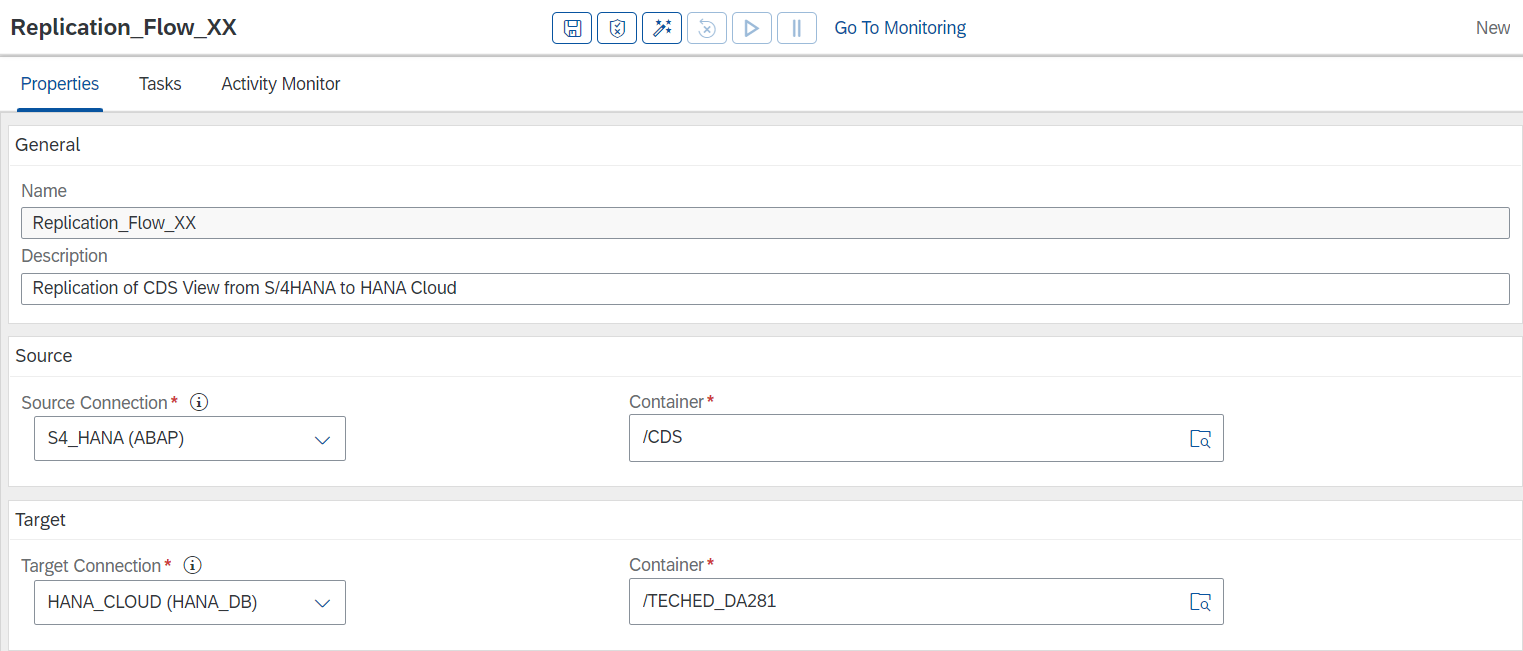
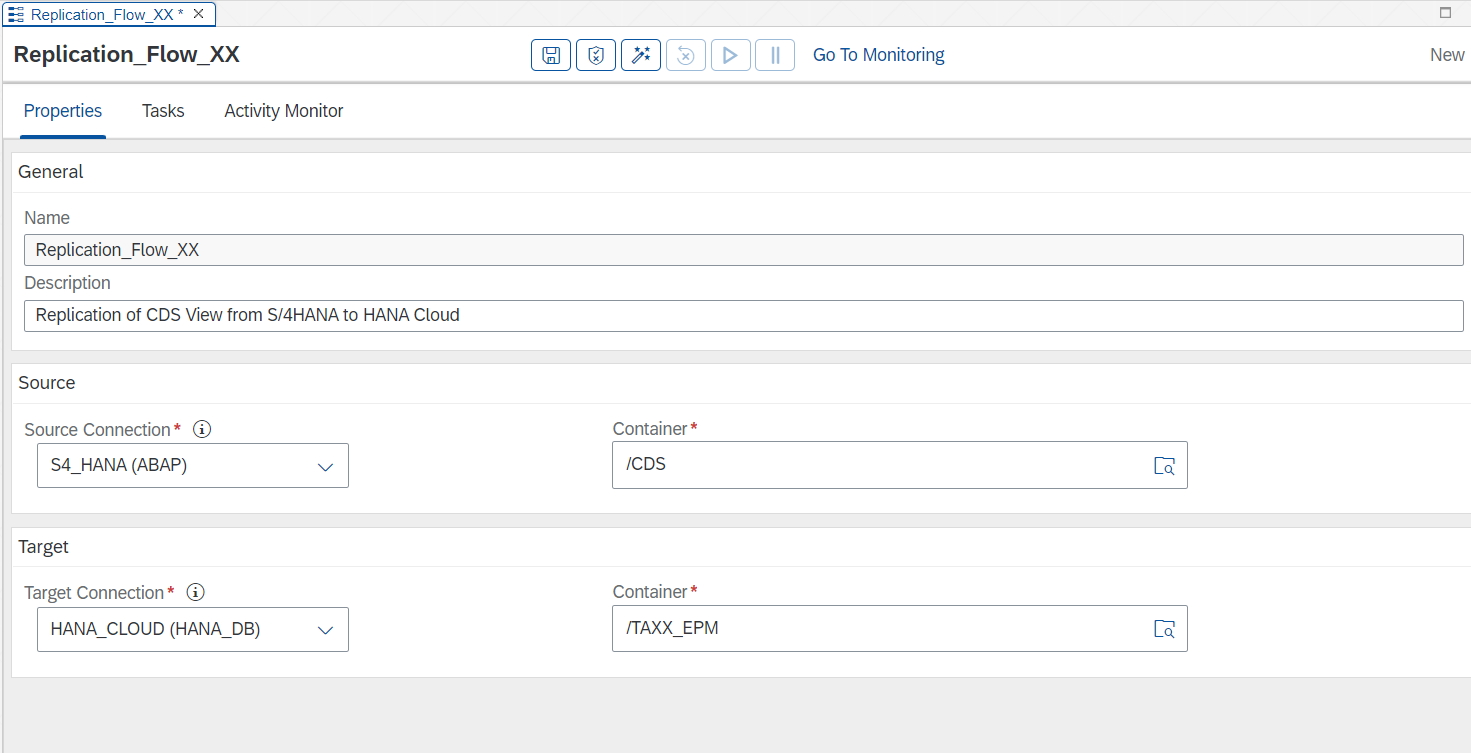
Updated Schema picture

diff --git a/exercises/ex3/README.md b/exercises/ex3/README.md
@@ -29,37 +29,37 @@ For the integration of ABAP CDS Views in S/4HANA, SAP Data Intelligence provides
      - Container: **CDS**
    - Target
       - Target Connection: **HANA_CLOUD (HANA_DB)**
-      - Container: **TECHED_DA281**
+      - Container: **TAXX_EPM**
 
 ![RF Configuration](img/RF_Configuration.png)
 
-6. After filling the necessary properties for the Replication Flow, we click on the Tasks tab to replicate the CDS View **Z_CDS_EPM_SO_XX**. 
-7. Click on the Create button to create a task for the CDS View replication
+1. After filling the necessary properties for the Replication Flow, we click on the Tasks tab to replicate the CDS View **Z_CDS_EPM_SO**. 
+2. Click on the Create button to create a task for the CDS View replication
 
 ![RF Create Task](img/RF_Create_Task.png)
 
-8. Select the CDS View by navigating to the TMP folder and click on the CDS View **Z_CDS_EPM_SO_XX**. To add the CDS View to the Replication Flow click the Ok button on the Pop-Up window
-9. Repeat step 8 for the CDS views **Z_CDS_EPM_PO_XX** and **Z_CDS_EPM_PD_XX**.
+1. Select the CDS View by navigating to the TMP folder and click on the CDS View **Z_CDS_EPM_SO**. To add the CDS View to the Replication Flow click the Ok button on the Pop-Up window
+2. Repeat step 8 for the CDS views **Z_CDS_EPM_PO** and **Z_CDS_EPM_PD**.
 
-10. After adding all three CDS views to the created Replication Flow, change the Load Type of each CDS View from Initial Only to Initial and Delta over the drop-down menu in the column Load Type.
+3.  After adding all three CDS views to the created Replication Flow, change the Load Type of each CDS View from Initial Only to Initial and Delta over the drop-down menu in the column Load Type.
 
 ![RF Task Overview](img/RF_Replication_Details.png)
 
 11. For the three CDS Views we define different preparations techniques which can be used for the replication. We differentiate between Filter and Mapping preparations
-12. For the CDS View Z_CDS_EPM_PD_XX we create a new column for the target table. Click therefore in the Mapping Column on the ![Mapping Icon](img/Mapping_Icon.png) icon
+12. For the CDS View Z_CDS_EPM_PD we create a new column for the target table. Click therefore in the Mapping Column on the ![Mapping Icon](img/Mapping_Icon.png) icon
     - In the opened window click on the Create Button to create a new column
     - Change the Column Name in the last field to the name **TimestampReplication**
     - Set the Data Type to timestamp from the drop down
     - Add for the Column Expression the following function: CURRENT_UTCTIMESTAMP
     ![RF Mapping Timestamp](img/RF_Mapping_Timestamp.png)
-    - Click on the **OK** Button to save the mapping for the CDS View Z_CDS_EPM_PD_XX
+    - Click on the **OK** Button to save the mapping for the CDS View Z_CDS_EPM_PD
 
-13. For the CDS View Z_CDS_EPM_PO_XX we want to filter the column GrossAmount for all rows which are >= 800 €. Click to filter the CDS View on the ![RF Filter Icon](img/Filter_Icon.png) icon
+13. For the CDS View Z_CDS_EPM_PO we want to filter the column GrossAmount for all rows which are >= 800 €. Click to filter the CDS View on the ![RF Filter Icon](img/Filter_Icon.png) icon
     - Scroll on the opened window until the column GrossAmount
     - Click on the left side on the left side on the field GrossAmount
     - Change the = operator to an >= from the drop-down
     -  Enter in the Value field on the ríght side the value **800**
-    -  Click on the **OK** Button to save the mapping for the CDS View Z_CDS_EPM_PO_XX
+    -  Click on the **OK** Button to save the mapping for the CDS View Z_CDS_EPM_PO
     ![RF Filter GrossAmount](img/RF_Filter_GrossAmount.png)
 
 14. For the CDS View Z_CDS_EPM_SO we combine the mapping and filtering together for our replication. For the sales orders we are interested filtering for all printers within our orders. We want to also add within our replicated dataset a new column storing the exact timestamp of our replication
@@ -69,17 +69,18 @@ For the integration of ABAP CDS Views in S/4HANA, SAP Data Intelligence provides
     - Enter for each row in the filtering option one of the Product Categories as displayed in below picture
     ![RF Filter ProductCategory](img/RF_Filter_ProductCategory.png)
 
+
 15. Click on the Validate button ![RF Validate Button](img/RF_Validate_Button.png)  to check if every check runs through smoothly. An ideal validation is displayed in belows image
 
 ![RF Validation Check](img/RF_Validation_Check.png)
 
-16. After everything went through in the validation check we can deploy our Replication Flow by clicking on the deploy button ![RF Deploy Button](img/RF_Deploy_Button.png)
+17. After everything went through in the validation check we can deploy our Replication Flow by clicking on the deploy button ![RF Deploy Button](img/RF_Deploy_Button.png)
 
-17. After the deployment of the Replication Flow is completed, we can press the run button ![RF Run Button](img/RF_Run_Button.png) to start the replication with our specified settings
+18. After the deployment of the Replication Flow is completed, we can press the run button ![RF Run Button](img/RF_Run_Button.png) to start the replication with our specified settings
 
-18. After the replication is finished, click on the Data Intelligence Modeler banner at the top of the screen
+19. After the replication is finished, click on the Data Intelligence Modeler banner at the top of the screen
 
-19. In the Drop-Down menu click on the Metadata Explorer row to browse the replicated data
+20. In the Drop-Down menu click on the Metadata Explorer row to browse the replicated data
 
 ![DropDown Metadata Explorer](img/DI_Pipeline_DropDown.png)
 
@@ -90,7 +91,7 @@ For the integration of ABAP CDS Views in S/4HANA, SAP Data Intelligence provides
 21. To navigate to the replicated datasets click through with the following steps
     - Click on HANA_CLOUD tile
     - Click on TECHED_DA281 tile
-    - Click on the replicated datasets **Z_CDS_EPM_SO_XX**, **Z_CDS_EPM_PO_XX**, **Z_CDS_EPM_PD_XX**
+    - Click on the replicated datasets **Z_CDS_EPM_SO**, **Z_CDS_EPM_PO**, **Z_CDS_EPM_PD**
     - Click for each dataset on the Data Preview tab and explore for each dataset the data replicated
 
-22.  After the replication flow has successfully run and you explored the data, execute the Custom ABAP operator created in Exercise **Link_to_Custom_Operator_Ex** to create new sales orders
+22.  After the replication flow has successfully run and you explored the data, execute the Custom ABAP operator created in [Exercise 2](../ex2/README.md#exercise-15---using-a-custom-abap-operator-to-verify-your-delta-replication-of-epm-sales-orders) to create new sales orders.
